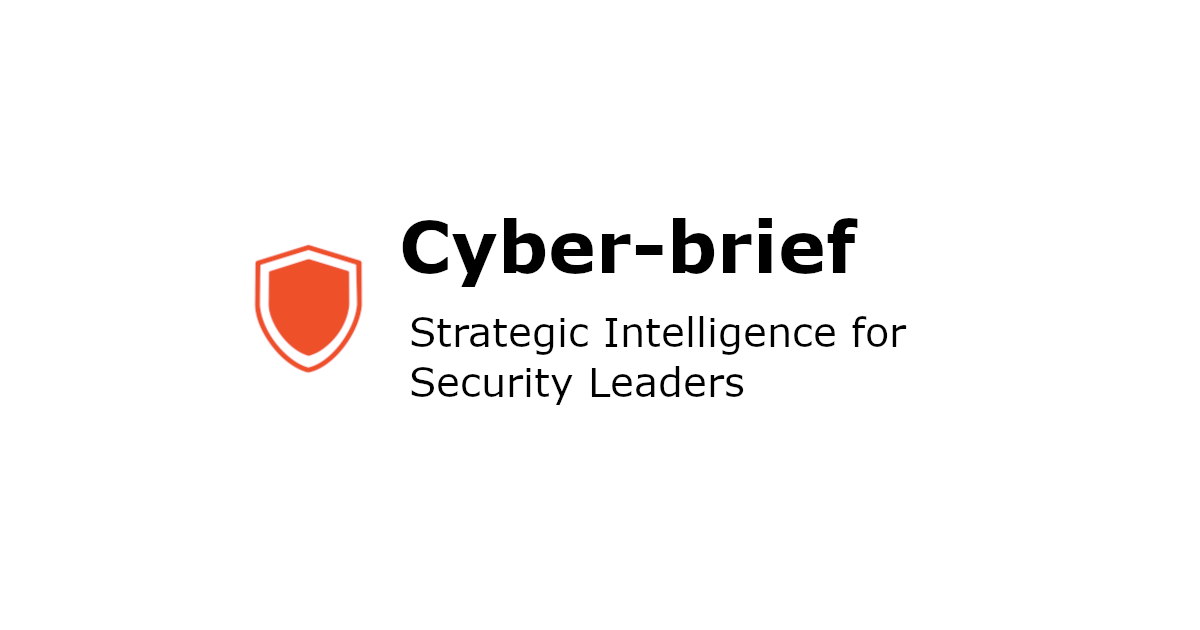
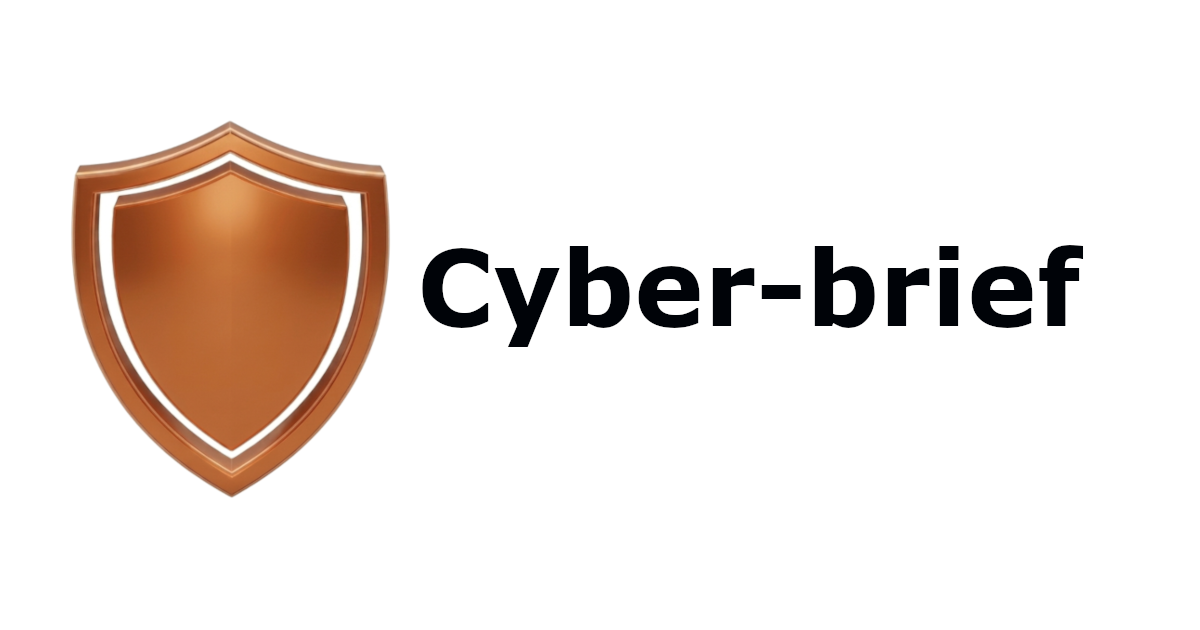
Updated intelligence page

Changed region(s): [[0.0617, 0.181, 0.925, 0.7841]]

diff --git a/intelligence.html b/intelligence.html
@@ -98,6 +98,21 @@
               class="flex flex-col md:flex-row md:items-baseline justify-between mb-4"
             >
               <h2 class="text-2xl font-bold text-slate-900 group-hover:text-[#EE6C4D] transition-colors">
+                <a href="https://cyber-brief.net/articles/audit-season" class="hover:underline">
+                  Audit Season
+                </a>
+              </h2>
+              <span class="text-sm text-slate-400 font-mono">MAY 24, 2026</span>
+            </div>
+            <p class="text-slate-600 leading-relaxed mb-6">
+              Your audit report is more than a defensive document. Used proactively, it's what gets you in the room, and keeps competitors out.
+            </p>          
+          </section>
+          <section class="group">
+            <div
+              class="flex flex-col md:flex-row md:items-baseline justify-between mb-4"
+            >
+              <h2 class="text-2xl font-bold text-slate-900 group-hover:text-[#EE6C4D] transition-colors">
                 <a href="https://cyber-brief.net/articles/vendor-risk-your-weakest-link" class="hover:underline">
                   Vendor Risk
                 </a>